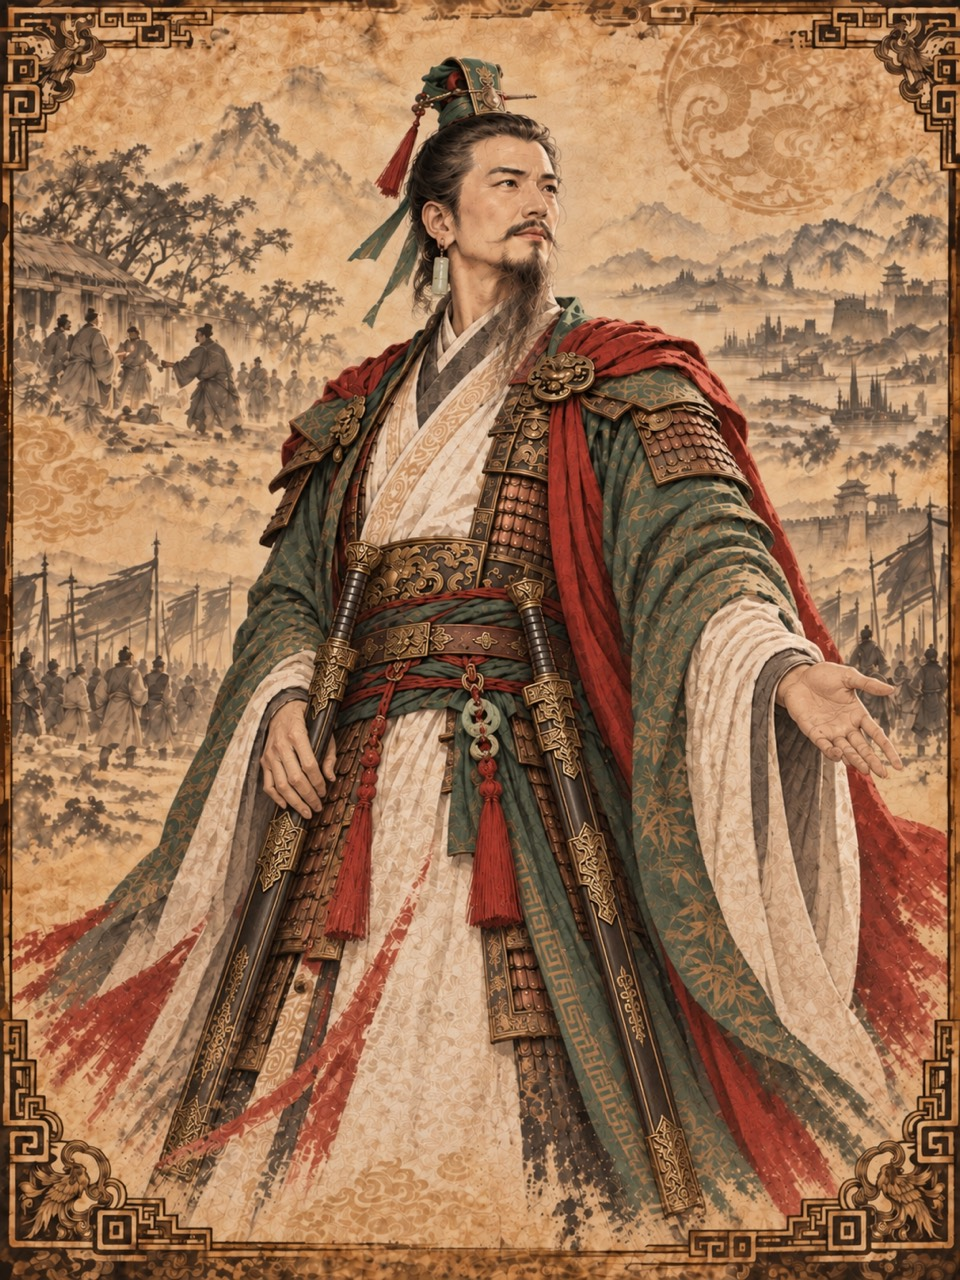
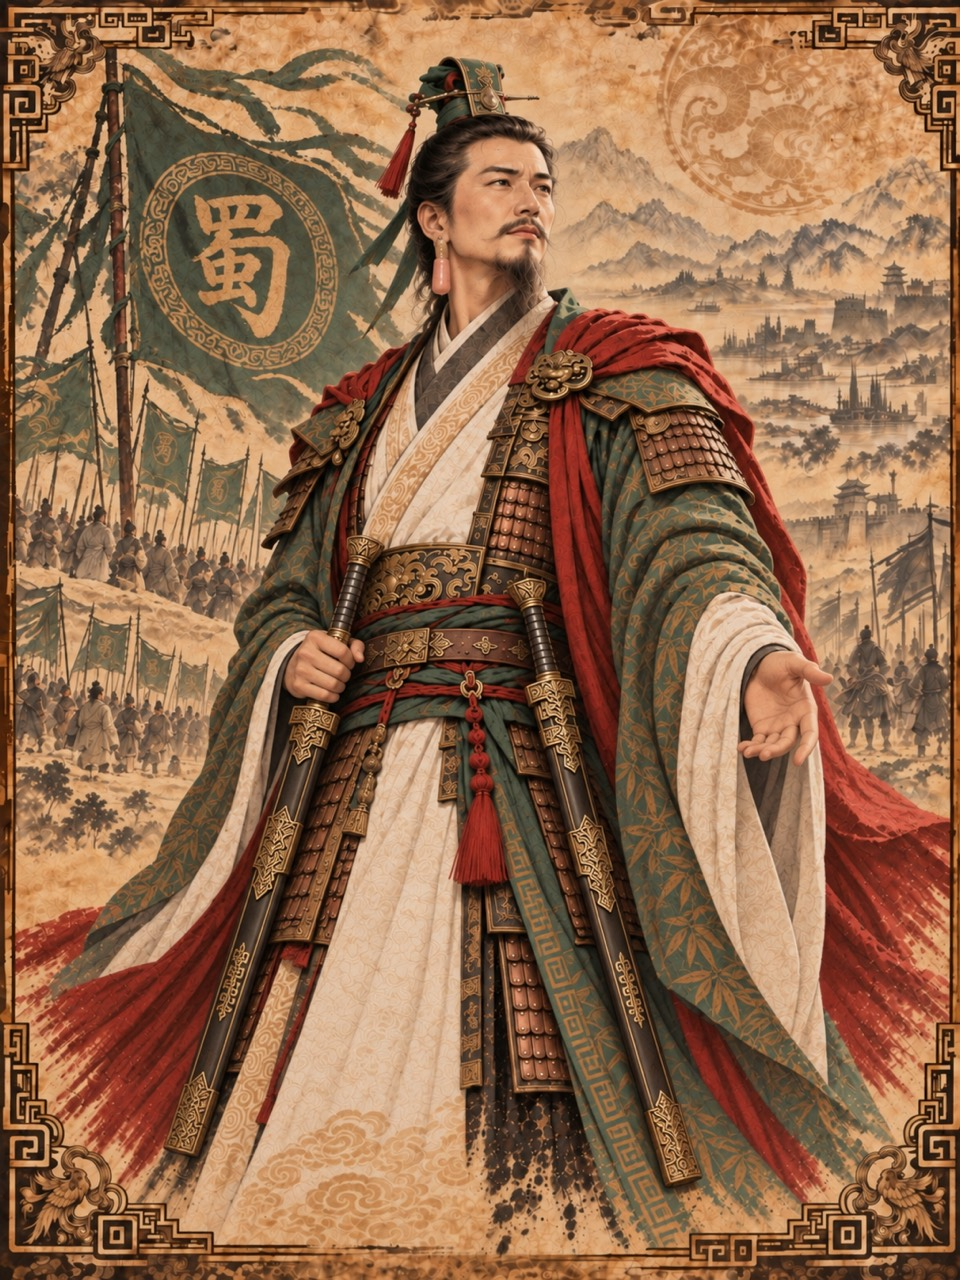
Update Ma Chao and Liu Bei artwork

diff --git a/app/page.tsx b/app/page.tsx
@@ -32,6 +32,7 @@ export const HERO_ART_BY_ID: Record<string, string> = {
   "zhang-fei": "/hero-zhang-fei.jpg",
   "zhen-ji": "/hero-zhen-ji.jpg",
   "gongsun-zan": "/hero-gongsun-zan.jpg",
+  "ma-chao": "/hero-ma-chao.jpg",
 };
 
 export function HeroPortrait({ hero }: { hero: Pick<Hero, "id" | "name"> }) {

diff --git a/HANDOVER.md b/HANDOVER.md
@@ -1,5 +1,14 @@
 # Three Kingdoms project handover
 
+## Latest presentation update — Ma Chao and Liu Bei artwork — 2026-09-28
+
+Added the supplied Ma Chao design at `public/hero-ma-chao.jpg` and replaced
+the Liu Bei design at `public/hero-liu-bei.jpg`. Both are connected through the
+existing shared `HERO_ART_BY_ID` / `HeroPortrait` path and the shared portrait
+renderer regression now verifies the Ma Chao asset and intentional fallback
+set. This update changes artwork only; gameplay, projections, selection rules,
+layout dimensions, and semantic actions are unchanged.
+
 ## Current state — Stage 6 Ma Chao / Horse Riding + Cavalry complete — 2026-09-28
 
 Ma Chao is complete on current `main`; Da Qiao has not been started. The Step 1

diff --git a/README.md b/README.md
@@ -1,5 +1,12 @@
 # Three Kingdoms
 
+## Hero artwork update — 2026-09-28
+
+Added the supplied Ma Chao design as `public/hero-ma-chao.jpg` and replaced
+`public/hero-liu-bei.jpg` with the supplied Liu Bei design. Both use the
+existing shared `HERO_ART_BY_ID` / `HeroPortrait` renderer; no gameplay rules,
+selection behavior, layout dimensions, or skill logic changed.
+
 ## Ma Chao / Horse Riding + Cavalry — 2026-09-28
 
 Completed Stage 6 Ma Chao on current `main`. Horse Riding reuses the generic
